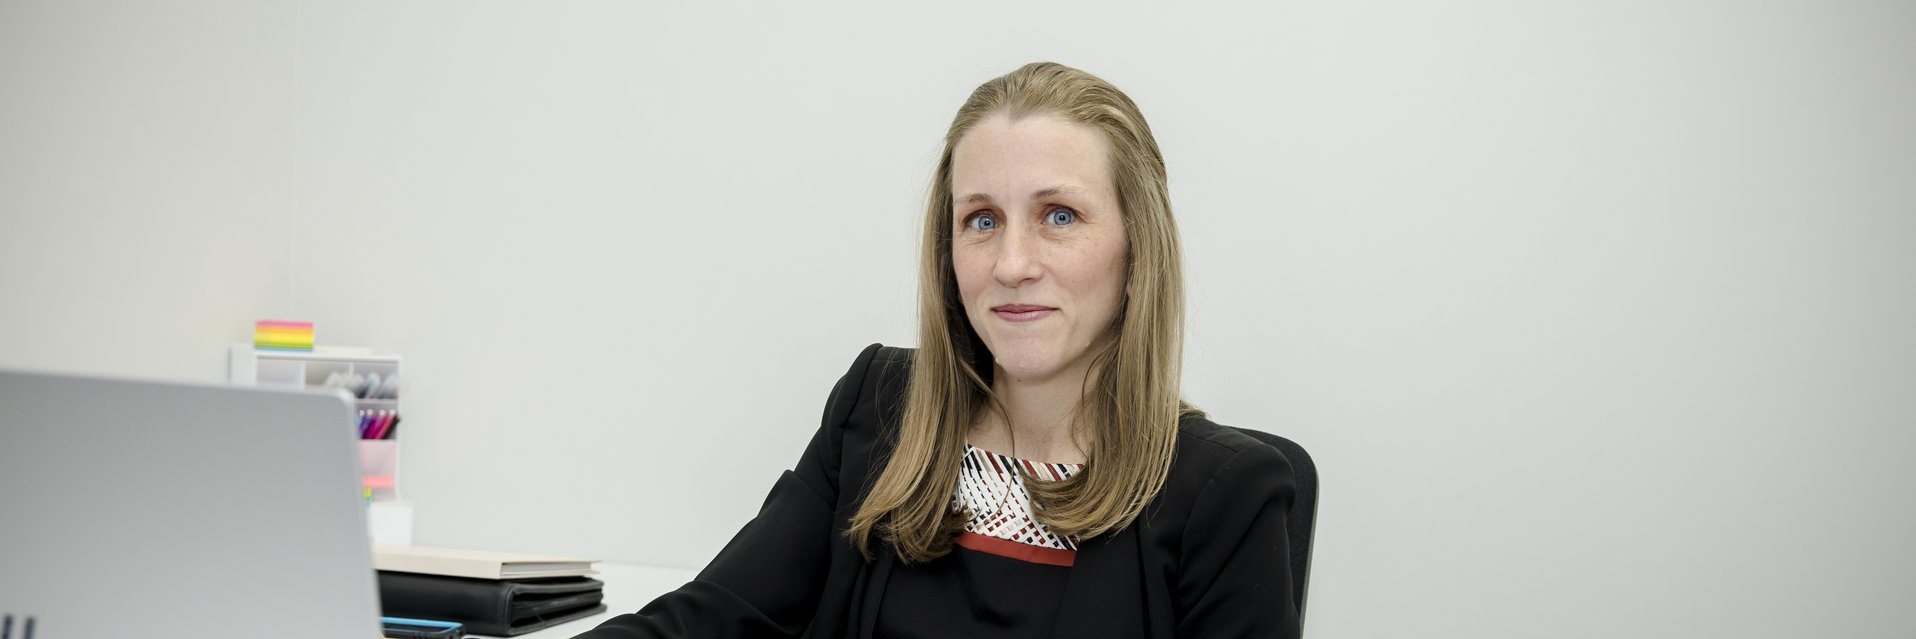
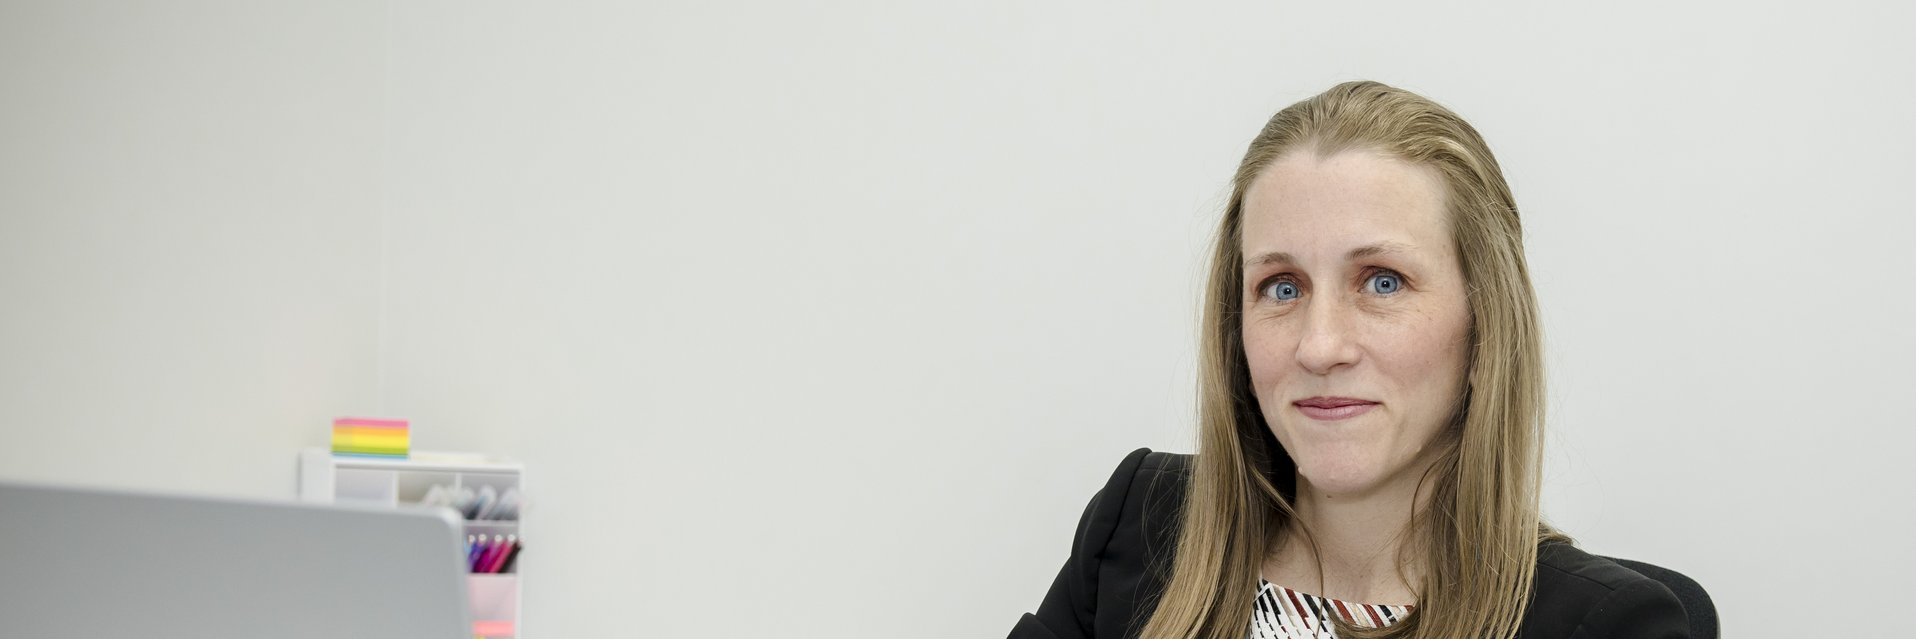
About hero: shift Brittany right, indent overlay text for balanced composition

diff --git a/about.html b/about.html
@@ -146,7 +146,7 @@
   <main id="main">
 
     <!-- Hero -->
-    <section class="hero-full hero-full--deep hero-full--short" aria-labelledby="founder-heading">
+    <section class="hero-full hero-full--deep hero-full--short hero-full--indent" aria-labelledby="founder-heading">
       <img src="assets/img/hero/about-hero.jpg" class="hero-full-img" alt="Brittany Ferguson, CPA, founder of PB&amp;J Strategic Accounting, at her desk" loading="eager" fetchpriority="high" width="1916" height="639">
       <div class="hero-full-gradient" aria-hidden="true"></div>
       <div class="hero-full-overlay">

diff --git a/assets/css/styles.css b/assets/css/styles.css
@@ -147,3 +147,5 @@ body.has-hero-overlay .site-header:not(.is-scrolled) .site-logo{filter:brightnes
 .award-card{height:170px;width:210px;background:#fff;border:1px solid var(--surface-3);border-radius:16px;display:flex;align-items:center;justify-content:center;padding:1.15rem;box-shadow:0 12px 28px -16px rgba(28,25,23,.28);transition:transform .25s ease,box-shadow .25s ease}
 .award-badge:hover .award-card{transform:translateY(-4px);box-shadow:0 18px 38px -18px rgba(28,25,23,.4)}
 .award-card img{max-width:100%;max-height:100%;object-fit:contain;display:block}
+.hero-full--indent .hero-full-overlay{padding-left:clamp(3.5rem,11vw,10rem)}
+@media (max-width:700px){.hero-full--indent .hero-full-overlay{padding-left:1.5rem}}